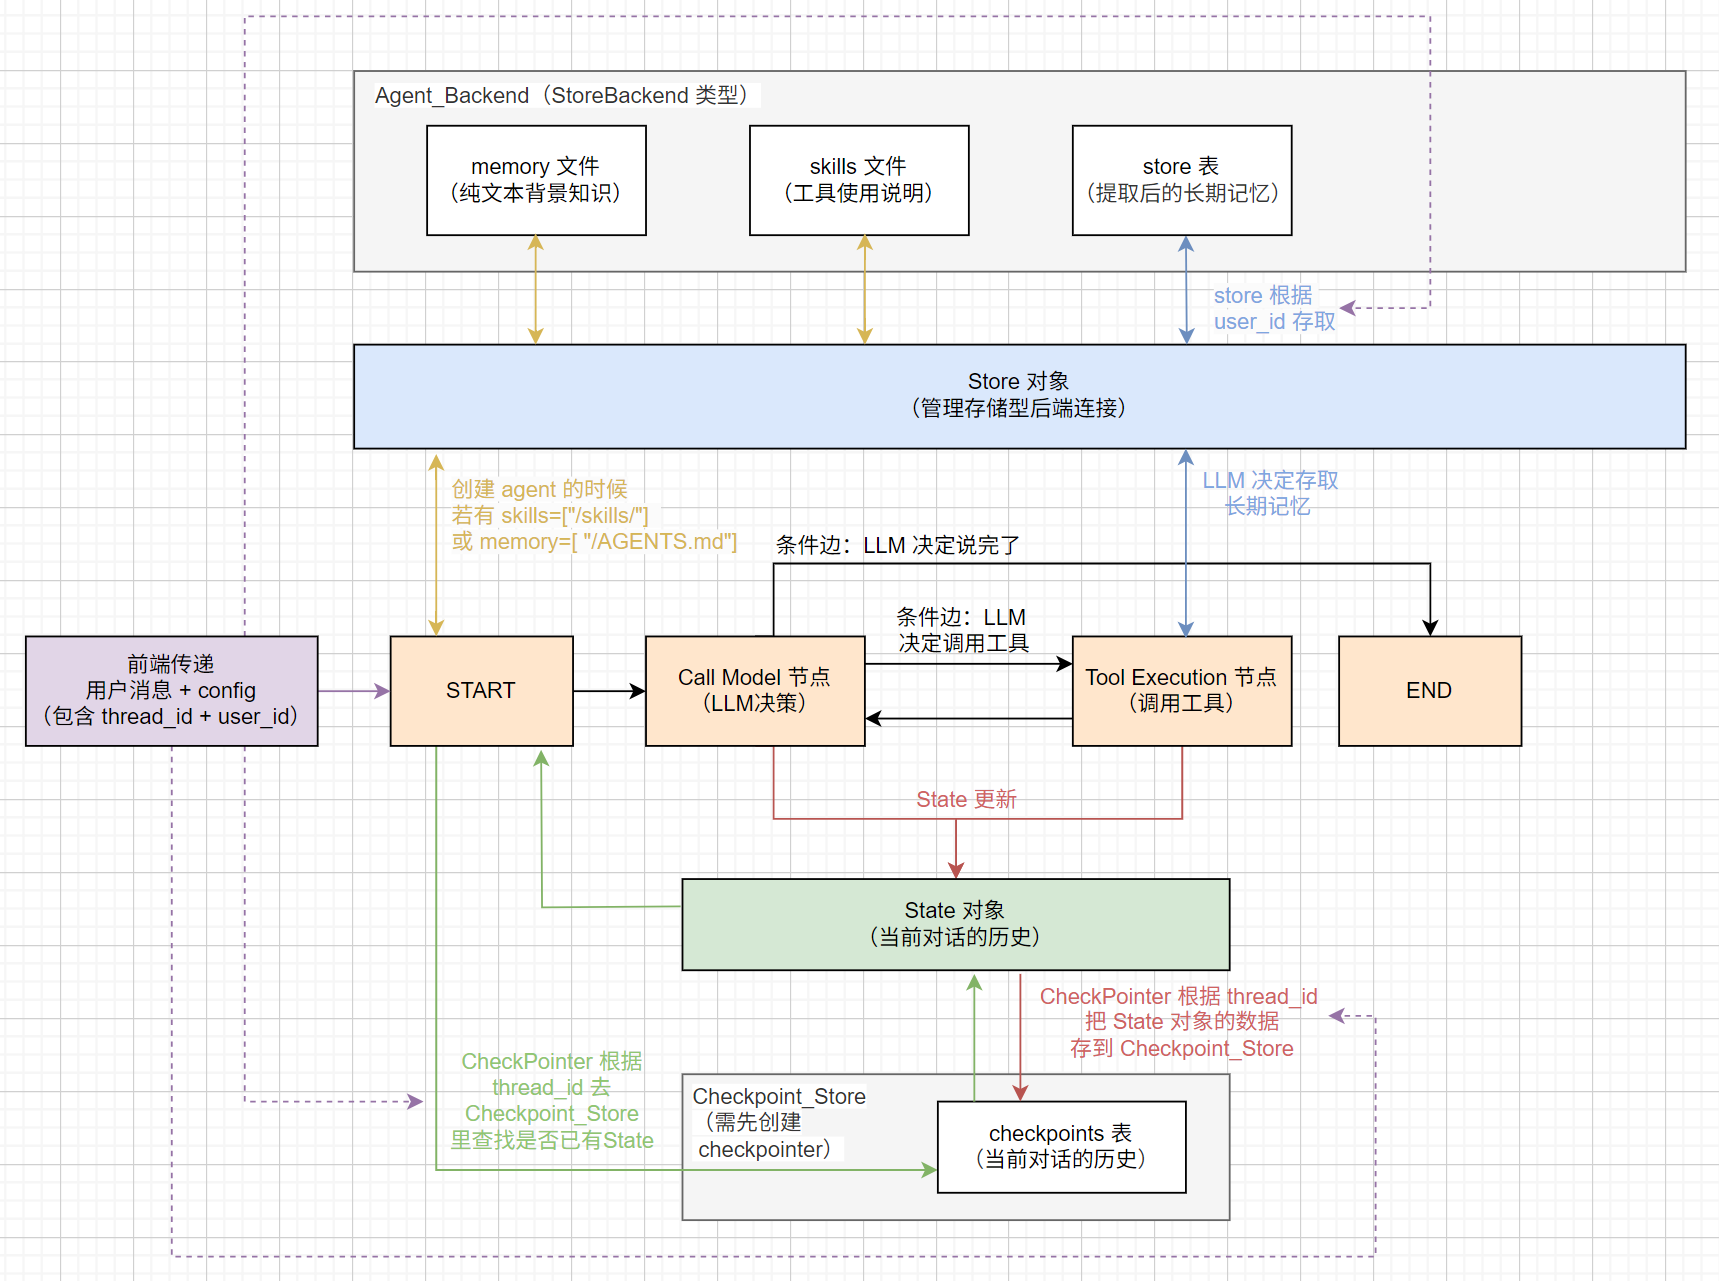
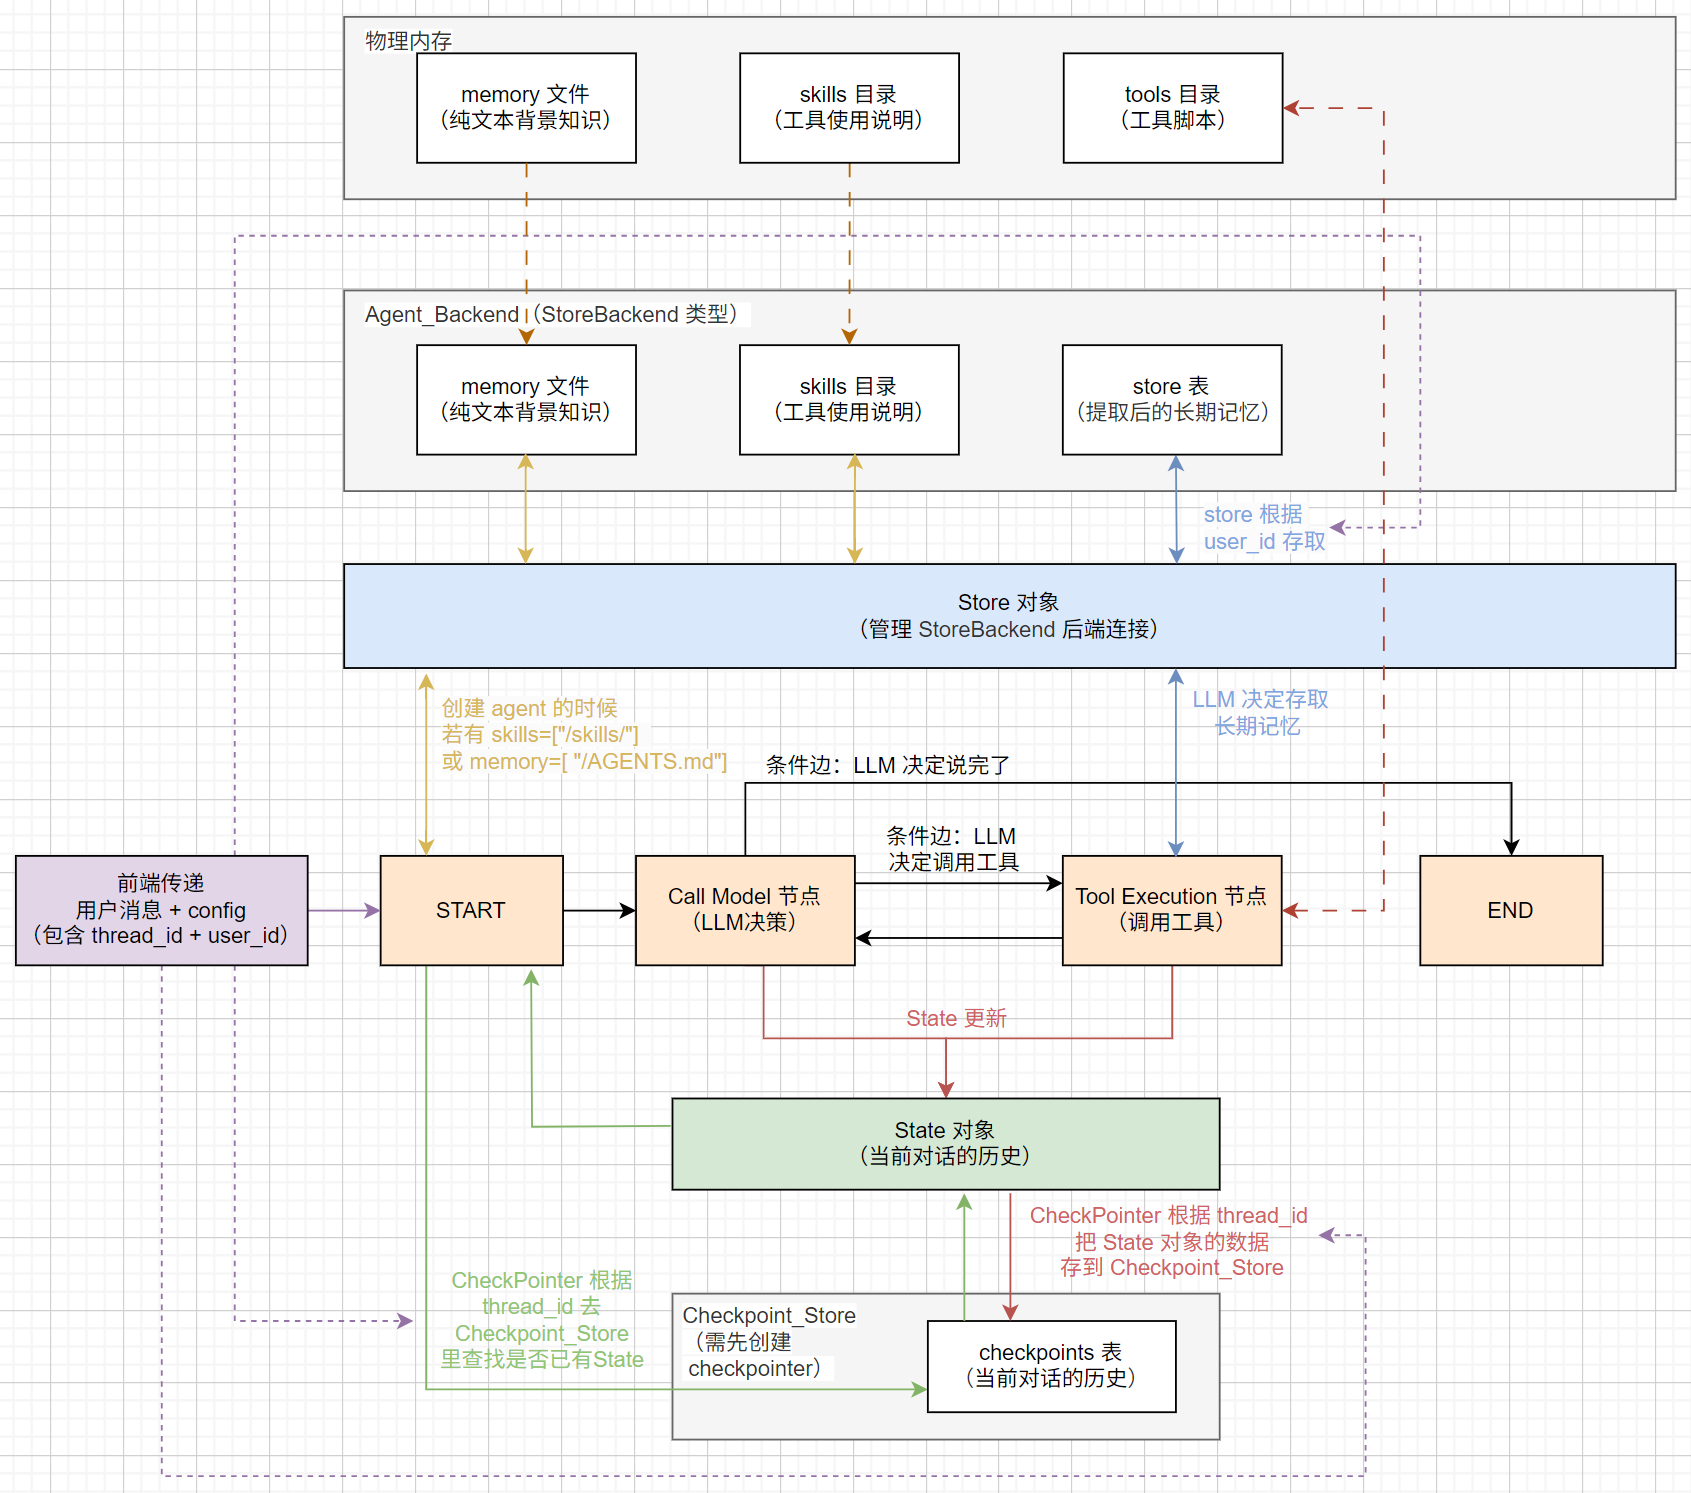
update_deepagent_notes

diff --git a/Notes/Notes_DeepAgents_Tools.md b/Notes/Notes_DeepAgents_Tools.md
@@ -26,7 +26,24 @@
   
 - **==Skills==（SKILL.md）**：是**自然语言描述**。它是给 Agent 看的“说明书”，告诉它“什么时候”该去用工具，以及用的“策略”是什么。
 
+- **==项目结构==**
 
+  ```
+  my_agent_project/
+  ├── data/               # 原始文档 (PDF, TXT)
+  ├── chroma_db/          # 向量数据库存储目录 (自动生成)
+  ├── tools/              # 所有的工具脚本
+  │   ├── search_tool.py  
+  │   ├── rag_tool.py     
+  │   └── weather_tool.py 
+  ├── skills/             # 所有的Markdown文档
+  │   ├── weather_expert.md
+  │   └── finance_expert.md
+  ├── ingest.py           # 知识入库脚本 (用于生成 chroma_db)
+  └── main.py             # 启动文件 (组合 Skill 和 Tool)
+  ```
+
+  
 
 ### 1. Tavily（联网搜索）
 
